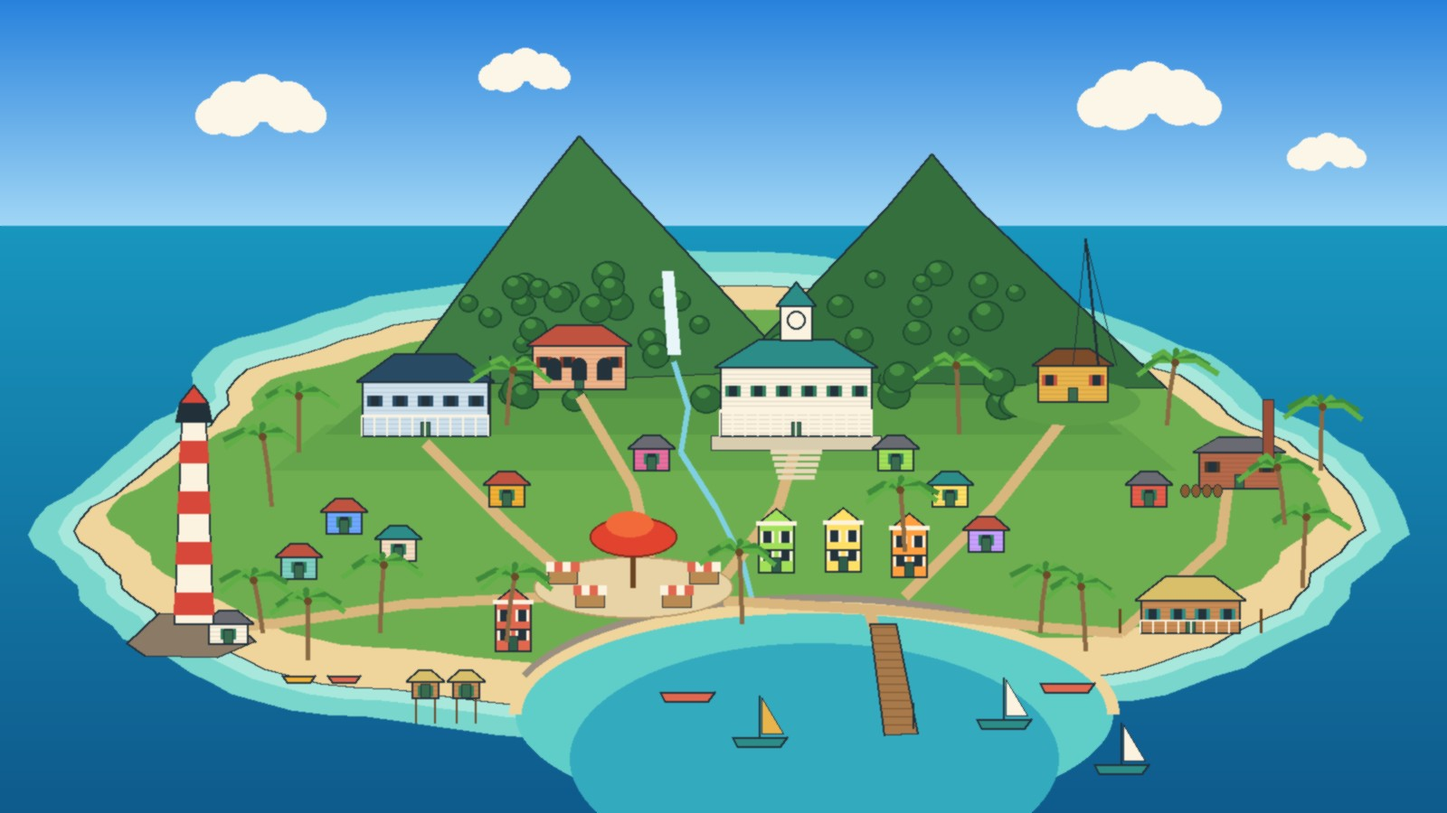
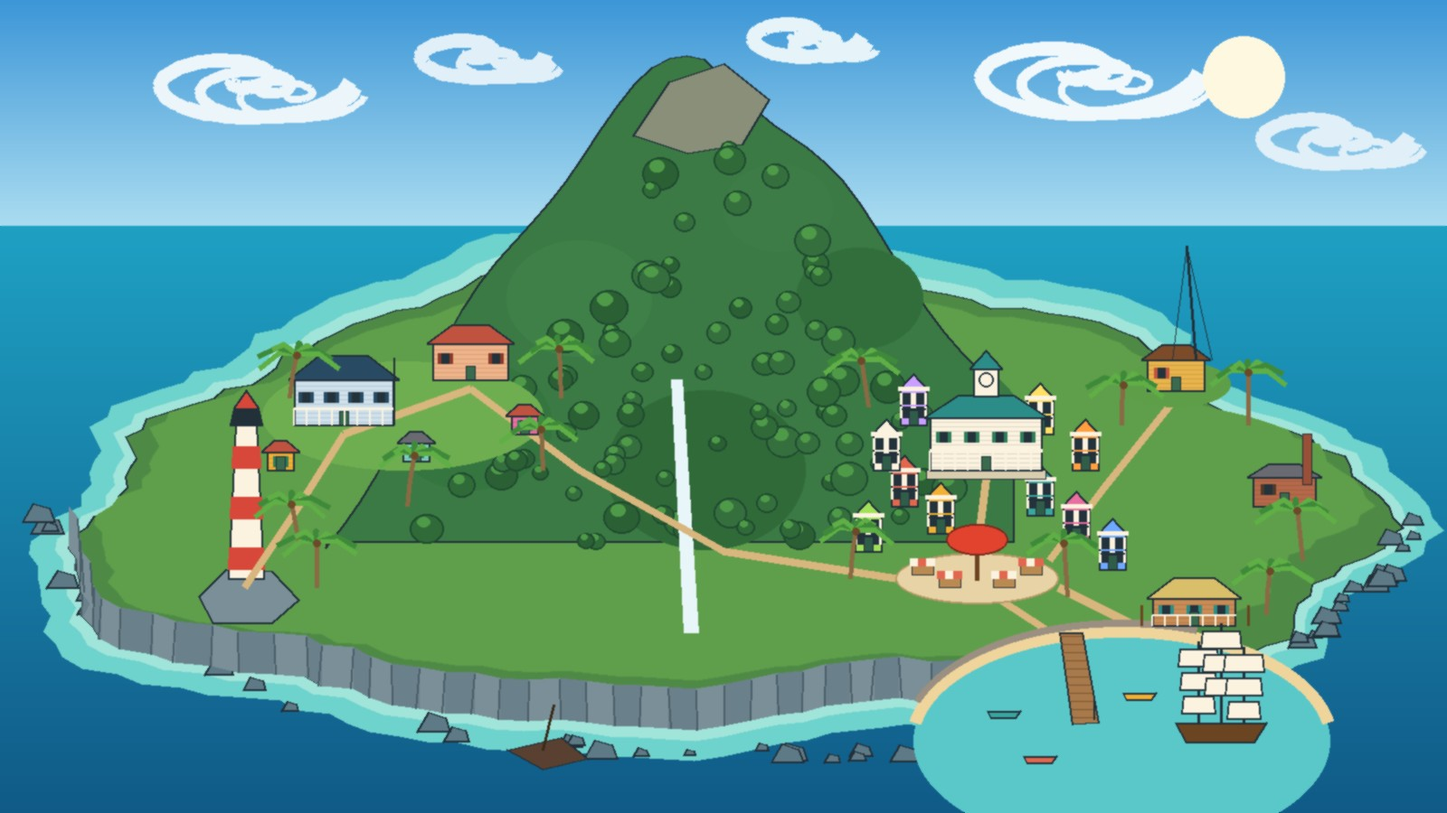
White Rabbit Key: island sketch redrawn as a dramatic map: one great peak, cliffs, a glowing harbour town, curling clouds

diff --git a/infra/rabbit-art/sketch.py b/infra/rabbit-art/sketch.py
@@ -1,6 +1,7 @@
 #!/usr/bin/env python3
-"""A new island for White Rabbit Key, drawn as a rough sketch for the painter: a Caribbean harbour town round a turquoise
-bay under two green peaks. It writes the sketch (plates/bay.jpg) and, from the same numbers, where everything stands
+"""A new island for White Rabbit Key, drawn as a rough sketch for the painter: one great green peak rising out of the
+sea, cliffs and rocks along the front, a harbour town glowing in a bay on the right, a little village of the embassies
+on a plateau on the left, the lighthouse on a cliff point, swirling clouds. It writes the sketch (plates/bay.jpg) and, from the same numbers, where everything stands
 on it (plates/bay.json): the places a click finds, the streets people walk, windows that light up at night, smoke,
 torches, the waterfall, the lighthouse beam, the radio mast and the coast the surf runs along. When a painting of this
 sketch is kept, paint.py puts that layout next to it in index.json and rabbit/scene.js follows it.
@@ -18,32 +19,32 @@ HERE = os.path.dirname(os.path.abspath(__file__))
 W, H, HZ = 1600, 900, 250
 R = random.Random(7)
 
-# where the places stand: ground point and the box a click finds them in (world = 1600 x 900, as in scene.js)
+# where the places stand: ground point and the box a click finds them in (world = 1600 x 900, as in scene.js);
+# all inside what the game shows of the world at once (about x 200 to 1400, y 110 to 790)
 PLACES = {
-    "hall":   {"x": 880, "y": 482, "box": [792, 318, 176, 176], "name": "Council Hall"},
-    "market": {"x": 700, "y": 650, "box": [590, 600, 220, 84], "name": "Market square"},
-    "radio":  {"x": 1186, "y": 440, "box": [1122, 262, 128, 190], "name": "Radio Coco"},
-    "north":  {"x": 470, "y": 482, "box": [394, 386, 152, 108], "name": "North Wind Embassy"},
-    "south":  {"x": 640, "y": 430, "box": [584, 356, 112, 86], "name": "South Current Embassy"},
-    "bar":    {"x": 1316, "y": 700, "box": [1232, 636, 170, 96], "name": "Bar La Ola"},
-    "book":   {"x": 214, "y": 690, "box": [166, 440, 96, 262], "name": "The Lighthouse"},
-    "pier":   {"x": 980, "y": 752, "box": [924, 690, 120, 130], "name": "The pier"},
+    "hall":   {"x": 1090, "y": 520, "box": [1020, 410, 140, 120], "name": "Council Hall"},
+    "market": {"x": 1080, "y": 640, "box": [990, 600, 180, 70], "name": "Market square"},
+    "radio":  {"x": 1300, "y": 430, "box": [1250, 270, 110, 170], "name": "Radio Coco"},
+    "north":  {"x": 380, "y": 470, "box": [320, 390, 120, 90], "name": "North Wind Embassy"},
+    "south":  {"x": 520, "y": 420, "box": [470, 355, 100, 75], "name": "South Current Embassy"},
+    "bar":    {"x": 1320, "y": 690, "box": [1255, 640, 130, 70], "name": "Bar La Ola"},
+    "book":   {"x": 270, "y": 640, "box": [235, 450, 75, 200], "name": "The Lighthouse"},
+    "pier":   {"x": 1190, "y": 745, "box": [1140, 700, 110, 100], "name": "The pier"},
 }
-WALK = [[[300, 690], [450, 668], [600, 660]], [[800, 664], [1000, 676], [1160, 694], [1240, 700]], [[880, 492], [860, 560], [800, 640]],
-        [[1186, 450], [1100, 560], [1000, 660]], [[470, 490], [560, 580], [640, 650]], [[960, 676], [976, 724]],
-        [[640, 438], [700, 540], [720, 630]]]
-BAY = (900, 790, 330, 118)   # the harbour: centre and radii of the water the town wraps round
+WALK = [[[270, 650], [330, 560], [380, 480]], [[380, 480], [520, 430]], [[520, 430], [640, 520], [800, 610], [990, 640]],
+        [[1090, 530], [1080, 610]], [[1170, 650], [1250, 690], [1320, 700]], [[1300, 440], [1220, 540], [1160, 620]],
+        [[1100, 660], [1180, 712]]]
+BAY = (1240, 820, 230, 120)   # the harbour: centre and radii of the water in front of the town
 
 
 def coast():
-    """The island's outline: wide, a rocky arm on the left for the lighthouse, a beach arm on the right."""
+    """The island's outline: wide, a cliff point on the left for the lighthouse, the harbour cut in on the right."""
     pts = []
-    for i in range(120):
-        a = i / 120 * math.pi * 2
-        r = 1 + 0.035 * math.sin(a * 3 + 0.7) + 0.022 * math.sin(a * 8 + 2) + 0.012 * math.sin(a * 17) + (R.random() - 0.5) * 0.02
-        r += max(0, -math.cos(a)) ** 6 * max(0, math.sin(a) + 0.3) * 0.18           # the lighthouse arm
-        r += max(0, math.cos(a)) ** 6 * max(0, math.sin(a) + 0.2) * 0.1              # the beach arm
-        pts.append([round(800 + math.cos(a) * 660 * r), round(560 + math.sin(a) * 236 * r)])
+    for i in range(140):
+        a = i / 140 * math.pi * 2
+        r = 1 + 0.06 * math.sin(a * 3 + 0.4) + 0.035 * math.sin(a * 7 + 2) + 0.02 * math.sin(a * 13) + (R.random() - 0.5) * 0.03
+        r += max(0, -math.cos(a)) ** 6 * max(0, math.sin(a) + 0.2) * 0.12
+        pts.append([round(800 + math.cos(a) * 700 * r), round(560 + math.sin(a) * 250 * r)])
     return pts
 
 
@@ -108,150 +109,147 @@ def tree(d, x, y, r, c0="#2f7a3c", c1="#4f9e48"):
     d.ellipse([x - r * 0.6, y - r * 0.75, x + r * 0.2, y - r * 0.1], fill=c1)
 
 
+def swirl(d, x, y, r, turns, col, width):
+    """A curled cloud: a spiral drawn in one stroke, the painter makes a rolling cloud of it."""
+    pts = [(x + math.cos(t) * r * (1 - t / (turns * 6.3)) * 1.8, y + math.sin(t) * r * (1 - t / (turns * 6.3)) * 0.7) for t in [k * 0.12 for k in range(int(turns * 52))]]
+    d.line(pts, fill=col, width=width, joint="curve")
+
+
 def main():
     im = Image.new("RGB", (W, H))
     d = ImageDraw.Draw(im, "RGBA")
     for y in range(H):   # sky and sea
         if y < HZ:
             f = y / HZ
-            c = (round(40 + 120 * f), round(130 + 84 * f), round(220 + 25 * f))
+            c = (round(60 + 110 * f), round(150 + 70 * f), round(215 + 25 * f))
         else:
             f = (y - HZ) / (H - HZ)
-            c = (round(24 - 10 * f), round(150 - 60 * f), round(190 - 50 * f))
+            c = (round(30 - 14 * f), round(160 - 70 * f), round(195 - 60 * f))
         d.line([(0, y), (W, y)], fill=c)
-    for cx, cy, s in [(260, 120, 1.0), (560, 80, 0.7), (1240, 110, 1.1), (1450, 170, 0.6)]:
-        for dx, dy, r in [(0, 0, 30), (30, -12, 26), (58, -2, 28), (-24, 8, 20), (82, 8, 18)]:
-            d.ellipse([cx + (dx - r) * s, cy + (dy - r) * s, cx + (dx + r) * s, cy + (dy + r) * s], fill=(252, 246, 232))
+    for x, y, r, col in [(260, 90, 70, (235, 245, 250)), (520, 60, 46, (225, 240, 248)), (1180, 80, 80, (240, 248, 252)),
+                         (1460, 150, 54, (225, 240, 248)), (880, 40, 40, (230, 244, 250))]:
+        for k in range(3):
+            swirl(d, x + k * 30, y + k * 8, r - k * 12, 1.4, col, 16 - k * 4)
+    d.ellipse([1330, 40, 1420, 130], fill=(255, 248, 225))   # the sun
     win, fx = [], []
     shore = coast()
-    bx, by, brx, bry = BAY
-    # the reef and the shallows, then the beach and the land, terraced up the hills
-    poly(d, [[800 + (x - 800) * 1.07, 560 + (y - 560) * 1.15] for x, y in shore], (120, 214, 205, 255), None)
-    poly(d, [[800 + (x - 800) * 1.025, 560 + (y - 560) * 1.06] for x, y in shore], (168, 232, 220, 255), None)
-    poly(d, shore, "#efd49c")
-    poly(d, [[800 + (x - 800) * 0.95, 548 + (y - 560) * 0.84] for x, y in shore], "#6fae50", None)
-    for k, c in enumerate(["#64a44a", "#5a9a46", "#518f42"]):   # terraces up the slope
-        poly(d, [[300 + k * 60, 520 - k * 40], [1300 - k * 60, 520 - k * 40], [1240 - k * 60, 470 - k * 40], [360 + k * 60, 470 - k * 40]], c, None)
-    # the two green peaks behind the town, rainforest on their slopes, a waterfall between them
-    poly(d, [[430, 430], [600, 200], [640, 150], [690, 205], [880, 410]], "#3f7d45")
-    poly(d, [[800, 420], [980, 230], [1030, 170], [1080, 230], [1290, 430]], "#356f3e")
-    for k in range(80):
-        x = 460 + R.random() * 800
-        y = 300 + R.random() * 150
-        if (y > 210 + abs(x - 640) * 1.0) or (y > 220 + abs(x - 1030) * 0.95):
-            tree(d, x, y, 10 + R.random() * 10, "#2f6a38", "#478e44")
-    d.polygon([(732, 300), (744, 300), (752, 392), (738, 392)], fill="#e8f6fa")
-    fx += [{"k": "falls", "x": 732, "y": 300, "w": 12, "h": 92}, {"k": "splash", "x": 742, "y": 396}]
-    stream = [[744, 400], [760, 450], [752, 500], [790, 560], [820, 620], [834, 676]]
-    d.line([tuple(p) for p in stream], fill="#7fd0e2", width=6, joint="curve")
-    fx.append({"k": "stream", "pts": stream})
-    # the harbour: turquoise water in the bay, a stone quay round its back, the beach on its far side
-    sea = Image.new("L", (W, H), 0)   # the bay opens to the sea at the front: water only inside the land and below it
-    ImageDraw.Draw(sea).ellipse([bx - brx, by - bry, bx + brx, by + bry], fill=255)
-    im.paste((96, 206, 200), (0, 0), sea)
-    d.arc([bx - brx - 7, by - bry - 7, bx + brx + 7, by + bry + 7], 180, 360, fill="#efd49c", width=14)
-    d.arc([bx - brx - 14, by - bry - 14, bx + brx + 14, by + bry + 14], 200, 300, fill="#9a8f80", width=8)
-    inner = Image.new("L", (W, H), 0)
-    ImageDraw.Draw(inner).ellipse([bx - brx + 60, by - bry + 40, bx + brx - 60, by + bry + 60], fill=255)
-    im.paste((52, 170, 190), (0, 0), inner)
-    # streets of sand
-    for p in WALK + [[[300, 690], [214, 700]], [[1240, 700], [1350, 600], [1360, 520]]]:
-        d.line([tuple(q) for q in p], fill="#d9b67e", width=12, joint="curve")
-    # the lighthouse on the rocky arm, with the keeper's cottage
-    poly(d, [[140, 712], [176, 678], [250, 680], [282, 710], [240, 728], [160, 726]], "#8b7a66")
-    house(d, 252, 712, 44, 22, "#fbf3df", "#6a6a72", win)
-    poly(d, [[192, 690], [236, 690], [228, 466], [200, 466]], "#fbf3df")
-    for k in range(4):
-        y0 = 680 - k * 56
-        poly(d, [[192 + k * 2, y0], [236 - k * 2, y0], [235 - k * 2, y0 - 24], [193 + k * 2, y0 - 24]], "#d8483a", None)
-    poly(d, [[194, 466], [234, 466], [230, 446], [198, 446]], "#22303a")
-    poly(d, [[198, 446], [230, 446], [214, 426]], "#d8483a")
-    win.append([208, 606, 8, 12])
-    # the embassies: a cool Georgian house with a veranda, a warm terracotta villa with arches
-    house(d, 470, 482, 140, 60, "#cfe1ec", "#284b63", win, roof_h=30, shutters="#284b63", porch=True)
-    d.line([(542, 482), (542, 394)], fill="#22303a", width=2)
-    house(d, 640, 430, 104, 48, "#f0b48a", "#c0533f", win, roof_h=22, shutters="#8a3b2a")
+    # reef and shallows, a ring of rocks, then the land
+    poly(d, [[800 + (x - 800) * 1.06, 560 + (y - 560) * 1.14] for x, y in shore], (110, 210, 205, 255), None)
+    poly(d, [[800 + (x - 800) * 1.02, 560 + (y - 560) * 1.05] for x, y in shore], (160, 228, 218, 255), None)
+    poly(d, shore, "#4e8a46")
+    for k in range(60):   # rocks in the surf
+        a = R.random() * math.pi + 0.05
+        x, y = 800 + math.cos(a) * 720 * (1.02 + R.random() * 0.05), 560 + math.sin(a) * 262 * (1.02 + R.random() * 0.08)
+        s = 6 + R.random() * 12
+        poly(d, [[x - s, y + s * 0.4], [x - s * 0.3, y - s * 0.8], [x + s * 0.7, y - s * 0.5], [x + s, y + s * 0.4]], "#5d7a86")
+    # the cliffs along the front: steep rock faces under the grass
+    front = [p for p in shore if p[1] > 600 and p[0] < 1060]
+    for i in range(len(front) - 1):
+        (x0, y0), (x1, y1) = front[i], front[i + 1]
+        poly(d, [[x0, y0 - 46], [x1, y1 - 46], [x1, y1], [x0, y0]], "#7a8f98" if i % 2 else "#6a808a", None)
+        d.line([(x0, y0 - 44), (x0 + (R.random() - 0.5) * 8, y0)], fill="#4a5e68", width=2)
+    poly(d, [[800 + (x - 800) * 0.96, 540 + (y - 560) * 0.86] for x, y in shore], "#5f9e4a", None)
+    # the great peak: rainforest to the top, a bald rock crown, a waterfall down its front into the cliffs
+    ridge = []   # a lumpy, leaning silhouette rather than a cone
+    for k in range(41):
+        f = k / 40
+        x = 360 + f * 760
+        top = 70 + (abs(f - 0.55) / 0.55) ** 1.4 * 530
+        ridge.append([x, top + math.sin(f * 23) * 14 + math.sin(f * 9 + 1) * 18 * (1 - abs(f - 0.55))])
+    poly(d, ridge + [[1120, 600], [360, 600]], "#3b7a44")
+    for k in range(6):   # big rounded shoulders of forest on the flanks
+        cx, cy, r = [(520, 470, 90), (640, 330, 80), (950, 330, 70), (1040, 470, 90), (780, 520, 110), (860, 230, 60)][k]
+        d.ellipse([cx - r, cy - r * 0.8, cx + r, cy + r * 0.8], fill=["#357540", "#3f8048", "#326e3c", "#3a7a44", "#2f6a38", "#3d7c46"][k])
+    poly(d, [[700, 150], [740, 90], [800, 70], [850, 110], [820, 160], [760, 170]], "#8a8f7a")
+    for k in range(140):
+        x = 420 + R.random() * 680
+        y = 160 + R.random() * 460
+        edge = 600 - (y - 70) * 0.0
+        if abs(x - 790) < (y - 70) * 0.62 and y < 600:
+            tree(d, x, y, 9 + R.random() * 12, R.choice(["#2f6a38", "#356f3e", "#2b6034"]), "#4f9a48")
+    d.polygon([(742, 420), (754, 420), (772, 700), (756, 700)], fill="#e8f6fa")
+    fx += [{"k": "falls", "x": 742, "y": 420, "w": 12, "h": 280}, {"k": "splash", "x": 762, "y": 760}]
+    # the plateau on the left with the embassies' little village, the lighthouse on the cliff point
+    d.ellipse([290, 400, 600, 520], fill="#6fae50")
+    poly(d, [[220, 660], [250, 630], [300, 632], [330, 664], [300, 690], [236, 690]], "#7a8f98")
+    poly(d, [[252, 640], [292, 640], [284, 470], [260, 470]], "#fbf3df")
     for k in range(3):
-        ax = 612 + k * 28
-        d.pieslice([ax - 8, 396, ax + 8, 412], 180, 360, fill="#24323c")
-        d.rectangle([ax - 8, 404, ax + 8, 420], fill="#24323c")
-    # the council hall up on its terrace: white colonial front, green shutters, a clock tower, steps down to town
-    d.rectangle([786, 482, 974, 498], fill="#d9cdb0", outline="#22303a")
-    for k in range(5):
-        d.line([(852 + k * 2, 500 + k * 7), (908 - k * 2, 500 + k * 7)], fill="#e6d8b8", width=5)
-    house(d, 880, 482, 168, 76, "#fbf3df", "#2c8c88", win, roof_h=30, porch=True)
-    poly(d, [[862, 376], [898, 376], [898, 338], [862, 338]], "#fbf3df")
-    d.ellipse([870, 344, 890, 364], fill="#fbf3df", outline="#22303a", width=2)
-    poly(d, [[858, 338], [902, 338], [880, 312]], "#2c8c88")
-    fx.append({"k": "flag", "x": 880, "y": 312, "c0": "#2c8c88", "c1": "#fbf3df", "h": 20})
-    # little pastel houses stacked up the hill
-    for x, y, wall, roof in [(560, 560, "#f2b134", "#c0533f"), (380, 590, "#6fa8ff", "#c0533f"), (440, 620, "#f6dcc0", "#2c8c88"),
-                             (990, 520, "#a3e05a", "#6a6a72"), (1050, 560, "#ffe066", "#2c8c88"), (1090, 610, "#c9a0ff", "#c0533f"),
-                             (720, 520, "#e86fa0", "#6a6a72"), (1270, 560, "#e85d4a", "#6a6a72"), (330, 640, "#7fd0c2", "#c0533f")]:
-        house(d, x, y, 40, 24, wall, roof, win, roof_h=14)
-    # the waterfront: a row of tall gabled houses in bright colours along the quay
-    for k, wall in enumerate(["#e2674f", "#f2b134", "#3aa6a0", "#e86fa0", "#6fa8ff", "#a3e05a", "#ffe066", "#ff9f40"]):
-        a = math.radians(206 + k * 11.5)
-        fx_, fy_ = bx + math.cos(a) * (brx + 40), by + math.sin(a) * (bry + 40)
-        if 590 < fx_ < 820:
-            continue   # the market takes this part of the quay
-        facade(d, fx_, fy_, 40, 54, wall, win)
-    # the market square on the quay: a big flame tree in the middle, stalls with striped awnings round it
-    d.ellipse([590, 616, 810, 684], fill="#e8d3a6", outline="#b89a6a", width=2)
-    for k, (sx, sy) in enumerate([(622, 646), (652, 672), (748, 672), (778, 646)]):
-        d.rectangle([sx - 16, sy - 14, sx + 16, sy], fill="#b98a52", outline="#22303a")
-        for j in range(4):
-            d.rectangle([sx - 18 + j * 9, sy - 24, sx - 9 + j * 9, sy - 14], fill=("#e2674f" if (j + k) % 2 else "#fbf3df"))
-    d.line([(700, 650), (700, 604)], fill="#6b4422", width=6)
-    d.ellipse([652, 572, 748, 616], fill="#e2432f", outline="#7a2a1e", width=2)
-    d.ellipse([670, 566, 722, 594], fill="#f26a3a")
-    # Radio Coco: a yellow shack on a green knoll, its mast with a red light on top
-    d.ellipse([1110, 420, 1260, 470], fill="#5f9e48")
-    house(d, 1186, 444, 78, 40, "#e9b44c", "#7c4b2a", win, roof_h=18, shutters="#c0533f")
-    d.line([(1214, 404), (1200, 264)], fill="#22303a", width=3)
-    d.line([(1186, 404), (1200, 264), (1234, 404)], fill="#22303a", width=1)
-    # the rum distillery on the east slope: stone, a tall chimney, barrels
-    house(d, 1370, 540, 90, 40, "#b5694a", "#6a6a72", win, roof_h=16, shutters="#4c3a2a")
-    d.rectangle([1396, 442, 1408, 512], fill="#9a5038", outline="#22303a")
-    fx.append({"k": "smoke", "x": 1402, "y": 440, "s": 1.2, "c": "#c8c2b8"})
-    for k in range(4):
-        cx = 1310 + k * 12
-        d.ellipse([cx - 5, 536, cx + 5, 550], fill="#8a5a32", outline="#22303a")
-    # Bar La Ola on the beach arm: thatched roof, string of bulbs, two torches
-    house(d, 1316, 700, 110, 36, "#c98c55", "#d9bf6a", win, roof_h=26, shutters="#2c8c88", porch=True)
-    for k in range(9):
-        f = k / 8
-        fx.append({"k": "bulb", "x": round(1258 + f * 116), "y": round(652 + math.sin(f * math.pi * 2) ** 2 * 8), "c": k % 3})
-    for tx in (1238, 1394):
-        d.line([(tx, 700), (tx, 674)], fill="#6b4422", width=3)
-        fx.append({"k": "torch", "x": tx, "y": 672})
-    # the pier out into the harbour, a lamp at its end, boats at anchor
-    poly(d, [[962, 690], [990, 690], [1014, 812], [978, 814]], "#a8794a")
-    for k in range(13):
-        y0 = 694 + k * 9
-        d.line([(962 + k * 1.3, y0), (990 + k * 1.9, y0)], fill="#7a5530", width=1)
-    d.line([(1010, 806), (1010, 778)], fill="#22303a", width=2)
-    win.append([1006, 772, 7, 6])
-    for sx, sy, sail in [(1110, 800, "#fbf3df"), (840, 820, "#e9b44c"), (1180, 760, None), (760, 770, None), (1240, 850, "#fbf3df")]:
-        poly(d, [[sx - 30, sy - 4], [sx + 30, sy - 4], [sx + 22, sy + 7], [sx - 24, sy + 7]], "#2c8c88" if sail else "#e2674f")
-        if sail:
-            d.line([(sx, sy - 4), (sx, sy - 50)], fill="#22303a", width=2)
-            d.polygon([(sx + 2, sy - 48), (sx + 26, sy - 8), (sx + 2, sy - 8)], fill=sail, outline="#22303a")
-    # fishing boats pulled up on the beach by the lighthouse, huts on stilts in the shallows
-    for fx0 in (330, 380):
-        poly(d, [[fx0 - 18, 748], [fx0 + 18, 748], [fx0 + 12, 756], [fx0 - 12, 756]], R.choice(["#e2674f", "#3aa6a0", "#f2b134"]))
-    for hx in (470, 515):
-        d.line([(hx - 10, 800), (hx - 10, 770), (hx + 10, 770), (hx + 10, 800)], fill="#6b4422", width=2)
-        house(d, hx, 772, 30, 18, "#c98c55", "#d9bf6a", win, roof_h=12)
-    # palms along the beaches and round the town
-    palms = [(290, 700), (340, 730), (560, 710), (820, 690), (1150, 700), (1200, 720), (1440, 650), (1420, 580), (1460, 520),
-             (300, 560), (330, 500), (1290, 470), (1060, 480), (560, 470), (1000, 610), (420, 700)]
+        y0 = 630 - k * 56
+        poly(d, [[252 + k * 2, y0], [292 - k * 2, y0], [291 - k * 2, y0 - 24], [253 + k * 2, y0 - 24]], "#d8483a", None)
+    poly(d, [[254, 470], [290, 470], [286, 452], [258, 452]], "#22303a")
+    poly(d, [[258, 452], [286, 452], [272, 432]], "#d8483a")
+    win.append([268, 560, 7, 10])
+    # streets: sand paths winding from the plateau round the foot of the peak down to the town
+    for p in WALK:
+        d.line([tuple(q) for q in p], fill="#d9b67e", width=9, joint="curve")
+    house(d, 380, 470, 110, 50, "#cfe1ec", "#284b63", win, roof_h=26, shutters="#284b63", porch=True)
+    d.line([(436, 470), (436, 396)], fill="#22303a", width=2)
+    house(d, 520, 420, 84, 40, "#f0b48a", "#c0533f", win, roof_h=20, shutters="#8a3b2a")
+    for x, y, wall, roof in [(310, 520, "#f2b134", "#c0533f"), (460, 510, "#7fd0c2", "#6a6a72"), (580, 480, "#e86fa0", "#c0533f")]:
+        house(d, x, y, 30, 20, wall, roof, win, roof_h=12)
+    # the harbour on the right: the bay, the town climbing the slope above it, the hall on top, the radio on the hill
+    sea = Image.new("L", (W, H), 0)
+    bx, by, brx, bry = BAY
+    ImageDraw.Draw(sea).ellipse([bx - brx, by - bry, bx + brx, by + bry], fill=255)
+    im.paste((90, 200, 200), (0, 0), sea)
+    d.arc([bx - brx - 8, by - bry - 8, bx + brx + 8, by + bry + 8], 190, 350, fill="#efd49c", width=14)
+    d.arc([bx - brx - 14, by - bry - 14, bx + brx + 14, by + bry + 14], 200, 290, fill="#9a8f80", width=8)
+    for k, (x, y) in enumerate([(1000, 560), (1040, 590), (1150, 570), (1190, 600), (1230, 630), (960, 610), (1150, 480), (1200, 520),
+                                (1010, 470), (980, 520)]):
+        facade(d, x, y, 30, 40, ["#e2674f", "#f2b134", "#3aa6a0", "#e86fa0", "#6fa8ff", "#a3e05a", "#ffe066", "#ff9f40", "#c9a0ff", "#fbf3df"][k], win)
+    d.rectangle([1024, 520, 1156, 530], fill="#d9cdb0", outline="#22303a")
+    house(d, 1090, 520, 124, 58, "#fbf3df", "#2c8c88", win, roof_h=24, porch=True)
+    poly(d, [[1076, 438], [1104, 438], [1104, 408], [1076, 408]], "#fbf3df")
+    d.ellipse([1082, 412, 1098, 428], fill="#fbf3df", outline="#22303a", width=2)
+    poly(d, [[1072, 408], [1108, 408], [1090, 388]], "#2c8c88")
+    fx.append({"k": "flag", "x": 1090, "y": 388, "c0": "#2c8c88", "c1": "#fbf3df", "h": 18})
+    d.ellipse([990, 612, 1170, 668], fill="#e8d3a6", outline="#b89a6a", width=2)
+    for k, sx in enumerate([1020, 1050, 1110, 1140]):
+        sy = 650 if k in (1, 2) else 636
+        d.rectangle([sx - 12, sy - 10, sx + 12, sy], fill="#b98a52", outline="#22303a")
+        for j in range(3):
+            d.rectangle([sx - 14 + j * 9, sy - 18, sx - 5 + j * 9, sy - 10], fill=("#e2674f" if (j + k) % 2 else "#fbf3df"))
+    d.line([(1080, 642), (1080, 610)], fill="#6b4422", width=5)
+    d.ellipse([1046, 580, 1114, 614], fill="#e2432f", outline="#7a2a1e", width=2)
+    d.ellipse([1240, 400, 1360, 450], fill="#5f9e48")
+    house(d, 1300, 432, 64, 34, "#e9b44c", "#7c4b2a", win, roof_h=16, shutters="#c0533f")
+    d.line([(1322, 398), (1312, 272)], fill="#22303a", width=3)
+    d.line([(1296, 398), (1312, 272), (1340, 398)], fill="#22303a", width=1)
+    house(d, 1420, 560, 70, 32, "#b5694a", "#6a6a72", win, roof_h=14, shutters="#4c3a2a")
+    d.rectangle([1440, 480, 1450, 536], fill="#9a5038", outline="#22303a")
+    fx.append({"k": "smoke", "x": 1445, "y": 478, "s": 1.0, "c": "#c8c2b8"})
+    house(d, 1320, 692, 92, 30, "#c98c55", "#d9bf6a", win, roof_h=22, shutters="#2c8c88", porch=True)
+    for k in range(8):
+        f = k / 7
+        fx.append({"k": "bulb", "x": round(1276 + f * 88), "y": round(652 + math.sin(f * math.pi * 2) ** 2 * 6), "c": k % 3})
+    for tx in (1262, 1380):
+        d.line([(tx, 692), (tx, 670)], fill="#6b4422", width=3)
+        fx.append({"k": "torch", "x": tx, "y": 668})
+    poly(d, [[1172, 700], [1196, 700], [1214, 800], [1186, 802]], "#a8794a")
+    for k in range(11):
+        d.line([(1172 + k * 1.4, 704 + k * 9), (1196 + k * 1.7, 704 + k * 9)], fill="#7a5530", width=1)
+    d.line([(1210, 796), (1210, 772)], fill="#22303a", width=2)
+    win.append([1206, 766, 7, 6])
+    # a tall ship at anchor in the harbour, small boats, a wreck on the rocks below the cliffs
+    poly(d, [[1300, 800], [1400, 800], [1386, 822], [1312, 822]], "#6b4422")
+    for mx, mh in [(1325, 90), (1350, 110), (1375, 84)]:
+        d.line([(mx, 800), (mx, 800 - mh)], fill="#22303a", width=3)
+        for k in range(3):
+            y0 = 800 - mh + 8 + k * 26
+            poly(d, [[mx - 20 + k * 2, y0], [mx + 20 - k * 2, y0], [mx + 22 - k * 2, y0 + 20], [mx - 22 + k * 2, y0 + 20]], "#fbf3df")
+    for sx, sy in [(1110, 790), (1260, 770), (1150, 840)]:
+        poly(d, [[sx - 18, sy - 3], [sx + 18, sy - 3], [sx + 12, sy + 5], [sx - 14, sy + 5]], R.choice(["#e2674f", "#3aa6a0", "#f2b134"]))
+    poly(d, [[560, 830], [620, 816], [650, 840], [600, 852]], "#5a4030")
+    d.line([(600, 830), (612, 780)], fill="#3a2a1a", width=3)
+    # palms along the shore and round the town
+    palms = [(330, 600), (350, 650), (450, 560), (600, 520), (940, 640), (1180, 660), (1400, 680), (1440, 620), (1240, 470),
+             (960, 450), (1380, 470), (320, 440), (620, 440)]
     for i, (x, y) in enumerate(palms):
-        palm(d, x, y, 60 + (i * 7) % 22, ((i * 13) % 9 - 4) * 2.4)
+        palm(d, x, y, 44 + (i * 7) % 18, ((i * 13) % 9 - 4) * 2)
     im = im.filter(ImageFilter.SMOOTH)
     im.save(os.path.join(HERE, "plates", "bay.jpg"), quality=90)
     layout = {"places": PLACES, "walk": WALK, "windows": win, "fx": fx,
-              "beam": [214, 446], "blink": [1200, 264], "gather": [700, 656], "rabbit": [860, 676], "cat": [300, 694, 1240, 704]}
+              "beam": [272, 462], "blink": [1312, 272], "gather": [1080, 645], "rabbit": [940, 640], "cat": [960, 690, 1300, 712]}
     with open(os.path.join(HERE, "plates", "bay.json"), "w") as f:
         json.dump(layout, f, separators=(",", ":"))
     print("plates/bay.jpg and plates/bay.json")

diff --git a/infra/rabbit-art/paint.py b/infra/rabbit-art/paint.py
@@ -56,21 +56,21 @@ DETAIL = {
 }
 # new sketches of the island (sketch.py writes plates/<name>.jpg and plates/<name>.json, where everything stands)
 SKETCH = {
-    "bay": "A Caribbean harbour island seen from the sea at a high angle, around noon: a sheltered turquoise bay in "
-           "front that opens to the open sea, with sailing boats and fishing boats at anchor and a wooden pier running "
-           "out into it; round the back of the bay a stone quay with a row of tall, brightly painted gabled harbour "
-           "houses with shutters and balconies, and a market square with striped stalls under a huge flaming red "
-           "flamboyant tree; behind the town two steep green volcanic peaks covered in rainforest with a waterfall "
-           "and a stream running down to the bay; up on a terrace a white colonial council house with green shutters, "
-           "a veranda, a clock tower and broad steps; on the hillside to the left a cool blue Georgian embassy with a "
-           "veranda and a warm terracotta embassy villa with arches; on a green knoll to the right a little yellow "
-           "wooden radio station with a tall mast; a stone rum distillery with a chimney on the east slope; a beach "
-           "bar with a thatched roof on the right beach; on a rocky point on the left a red and white lighthouse "
-           "with a keeper's cottage; little pastel clapboard houses with tin roofs up the slopes, palm trees along "
-           "the beaches, huts on stilts in the shallows, a coral reef with surf round the island. Very Caribbean, "
-           "warm and alive, a place you want to walk around in. The input is a rough sketch: keep where every building, the bay, the pier, "
-           "the peaks and the lighthouse stand and how big they are, but paint it all far richer, with many more small "
-           "details of island life.",
+    "bay": "The whole island as the map screen of a classic cartoon adventure game, seen from the sea at a high angle: "
+           "one great lumpy green peak in the middle, covered in rounded masses of rainforest up to a bald rock crown, "
+           "a waterfall down its front; steep stylised cliffs with vertical rock striations along the front shore, "
+           "rocks scattered in the surf, a small wreck on the rocks; on a plateau on the left a little village with a "
+           "cool blue Georgian embassy with a veranda and a warm terracotta embassy villa; a red and white lighthouse "
+           "on the cliff point at the far left; on the right a harbour town glowing in a turquoise bay: tall narrow "
+           "brightly painted gabled houses climbing the slope, a white colonial council house with a clock tower on "
+           "top, a market square under a flaming red flamboyant tree, a wooden pier, a tall ship at anchor, small "
+           "boats; a yellow radio shack with a tall mast on the hill above, a stone rum distillery with a chimney, a "
+           "beach bar with a thatched roof on the bay's beach; palms along the shores. Style: exaggerated, organic, "
+           "slightly whimsical shapes, rich painterly brushwork, curling spiral clouds with painted swirls in the sky, "
+           "deep saturated turquoise and teal water that glows in the shallows, cinematic light, warm glowing windows "
+           "in the town, a sense of mystery and adventure; its own island, nothing copied. The input is a rough "
+           "sketch: keep where every building, the bay, the pier, the peak and the lighthouse stand and how big they "
+           "are, but paint it all far richer, with many more small details of island life.",
 }
 SCENE = {
     "island": "A small tropical island seen from above at an angle, in the open sea under a clear blue sky: a white "
